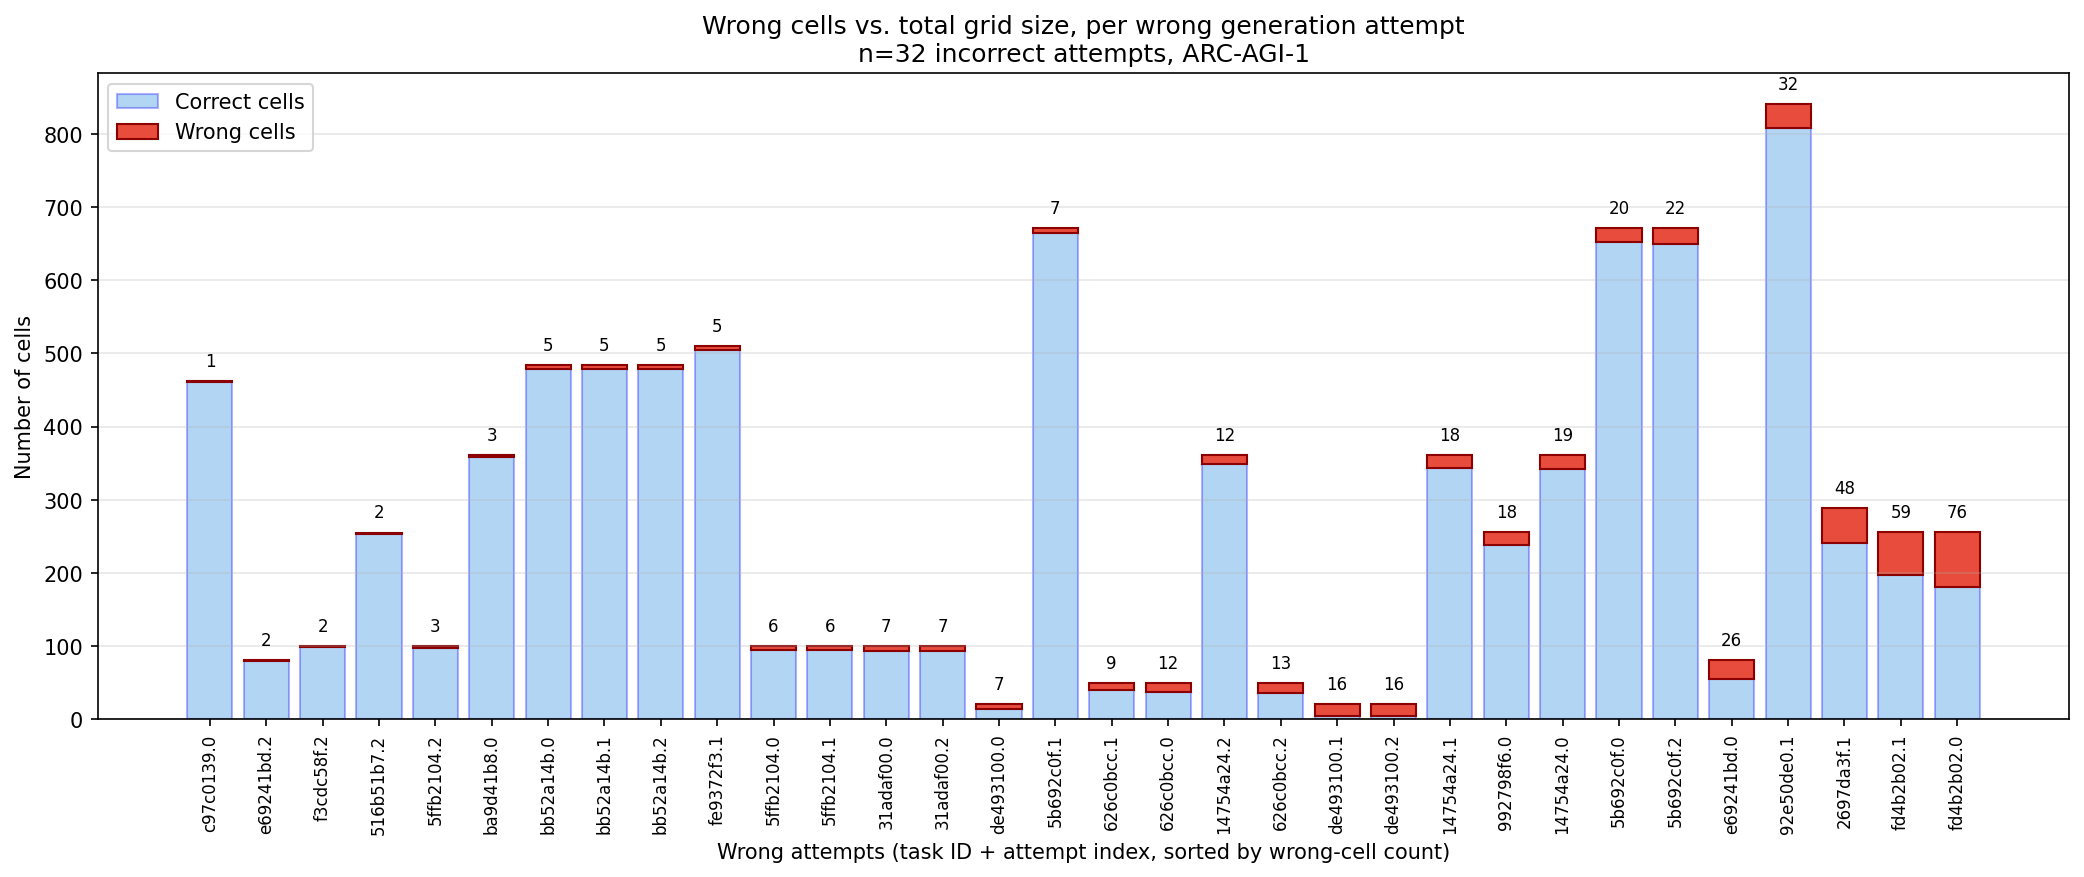
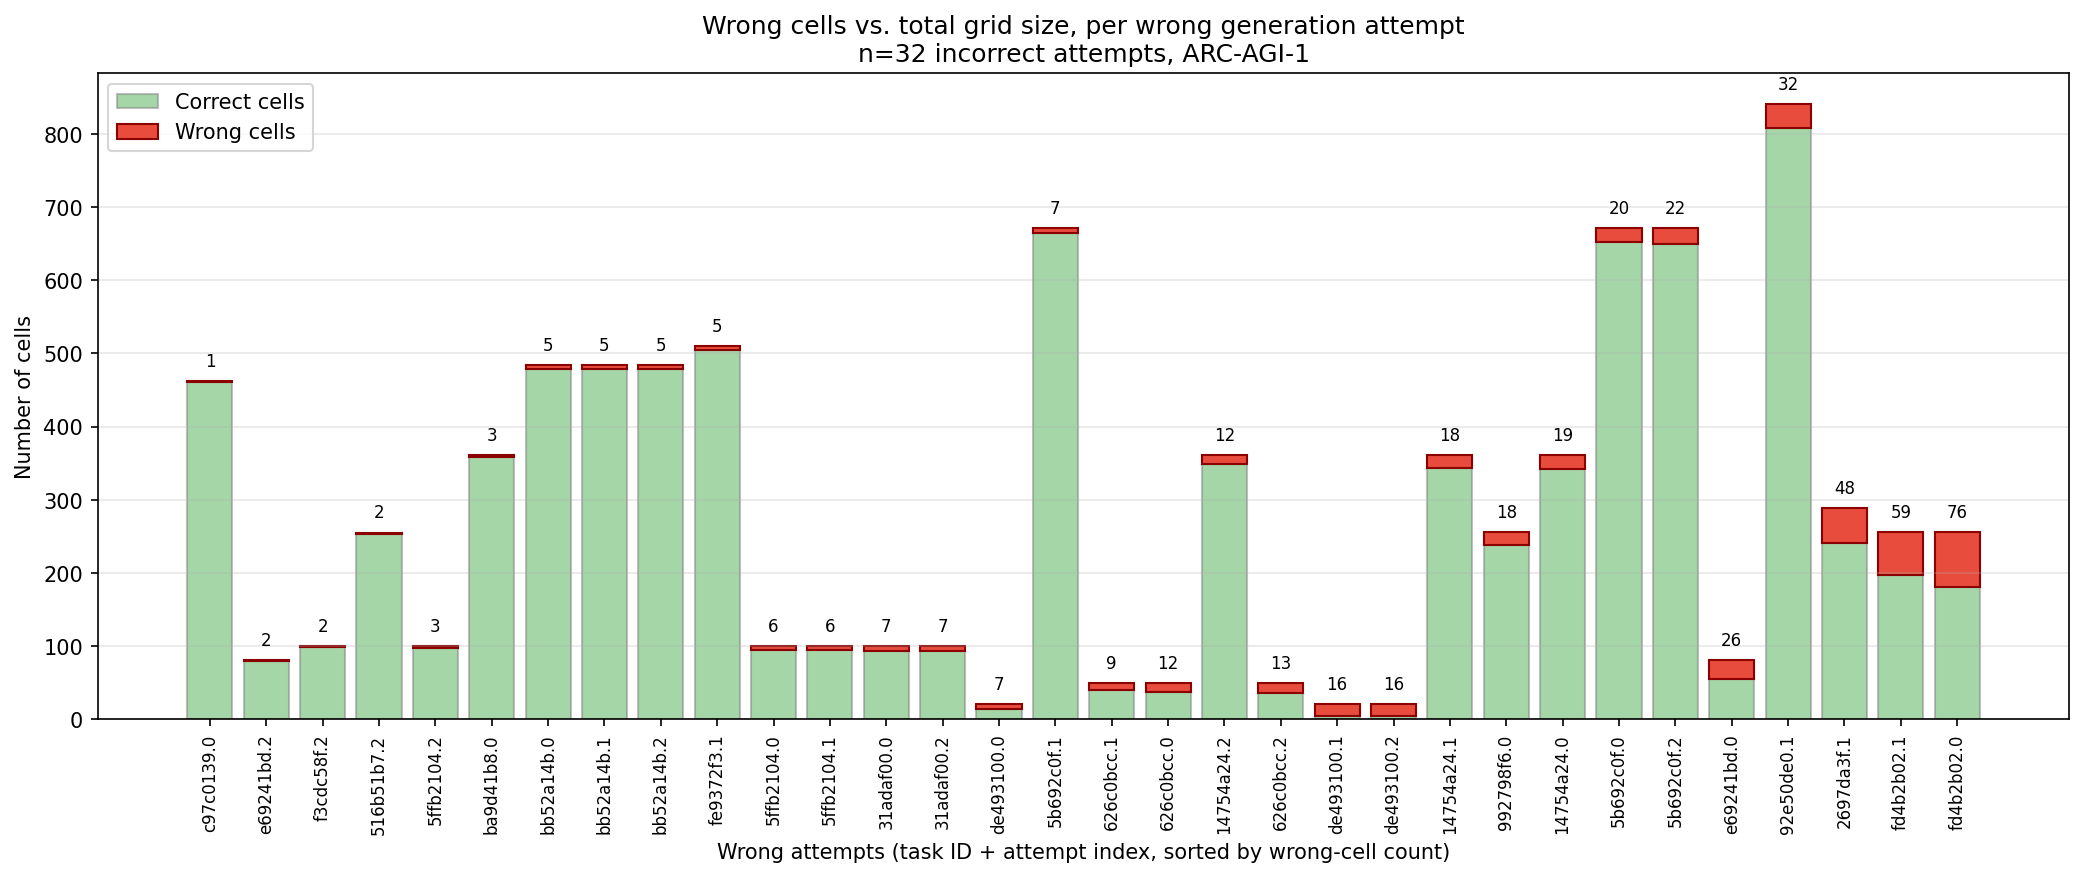
Initial public release: recognition vs generation on ARC-AGI-1

Changed region(s): [[0.0624, 0.2463, 0.6238, 0.8312], [0.6862, 0.1231, 0.9669, 0.8312], [0.0312, 0.0924, 0.0936, 0.1231]]

diff --git a/README.md b/README.md
@@ -49,6 +49,6 @@ MIT. Code and data are released for reuse and extension. See [`LICENSE`](LICENSE
 
 ## About
 
-This study was produced as a portfolio piece for AI evaluation roles. My background is in high-stakes assessment development; I work on the LSAT at LSAC. The methodology here brings a few concepts from assessments and psychometrics (partial credit, controlled distractors, item-level analysis) into a frontier-model evaluation context where they are underused. Substantially more work along these lines is possible.
+This is an exploratory study examining whether methodologies and mindset from high-stakes assessment development can be applied to AI model evaluation. The study brings a few concepts from assessments and psychometrics (partial credit, controlled distractors, item-level analysis) into a frontier-model evaluation context where they are underused. Substantially more work along these lines is possible.
 
 Reach out at [email redacted] or via GitHub issues if you have questions or want to extend the work.